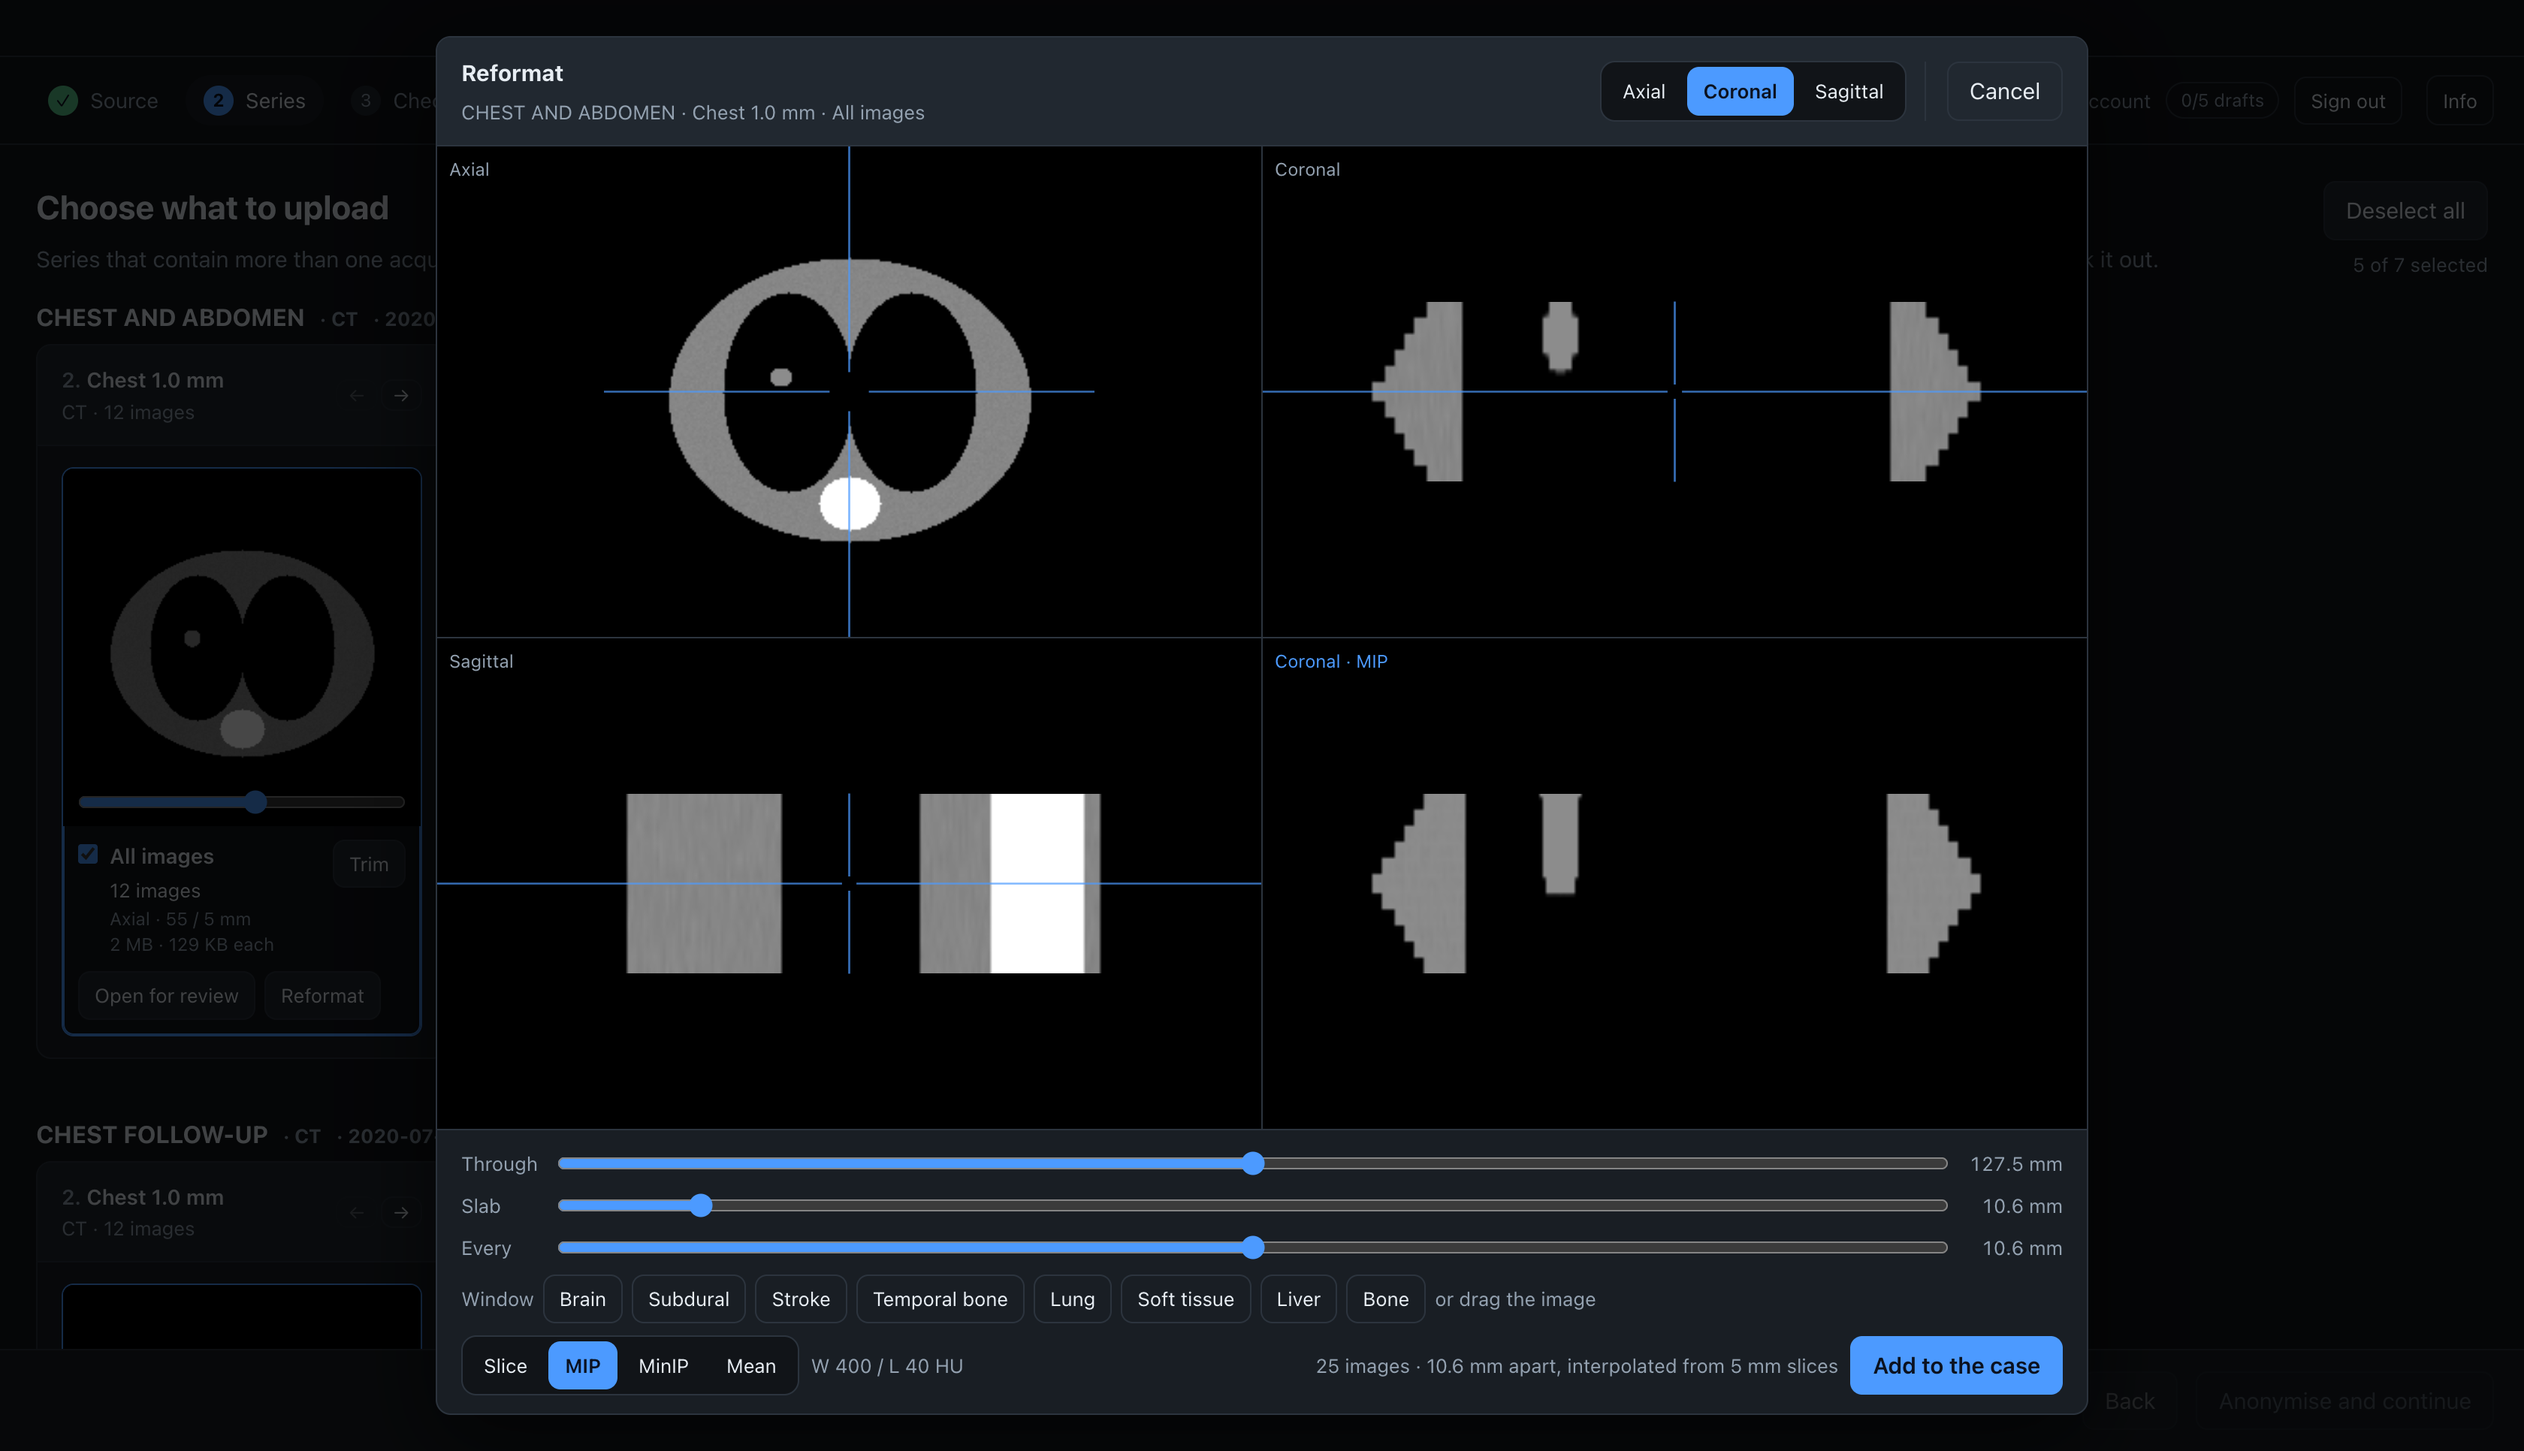
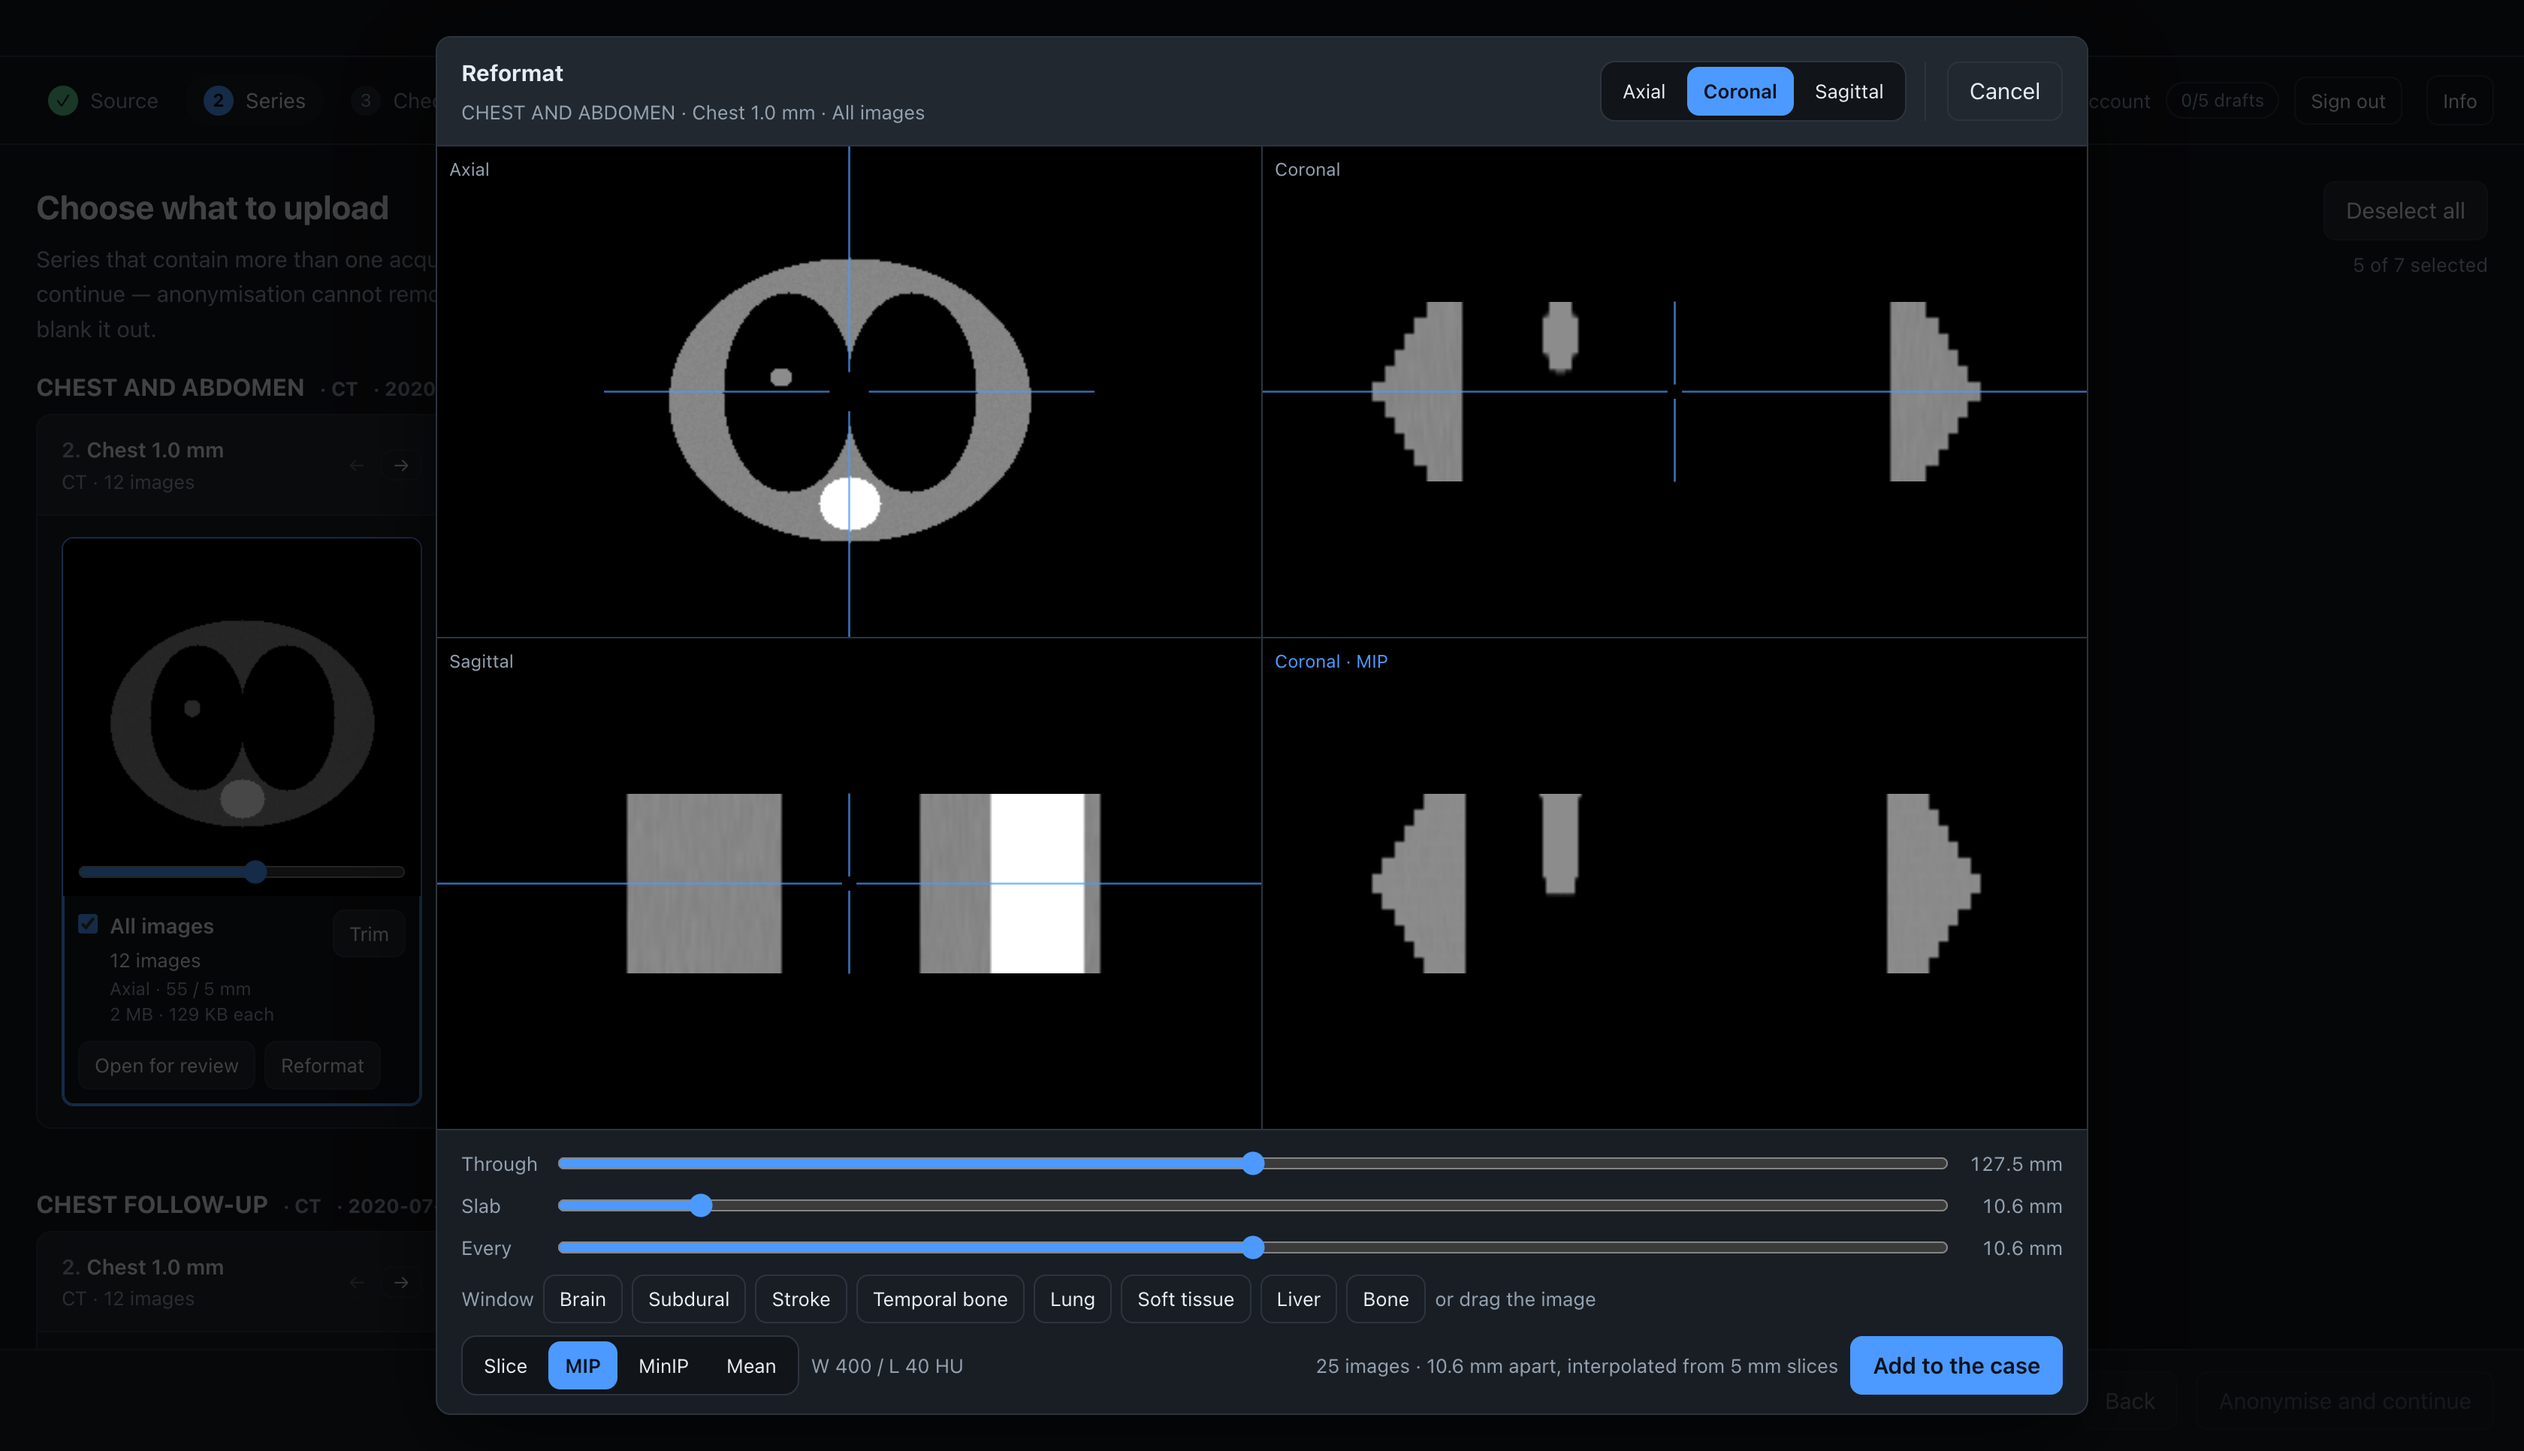
Stop the picker's instruction running the width of the window
The line under "Choose what to upload" is the one paragraph in the app that
nothing bounded, and it is the one that has to be read: it says anonymisation
will not touch the pixels and that a series has to be opened to blank them. On
a wide window it ran two hundred characters, and past about seventy-five the
eye loses the start of the next line.

Everything else was already inside something — the case form is 780px, the
dialogs are narrower still — so this is one class and one place that wanted it.

diff --git a/src/renderer/src/components/ReviewStep.tsx b/src/renderer/src/components/ReviewStep.tsx
@@ -80,7 +80,7 @@ export function ReviewStep({
       <div style={{ display: 'flex', alignItems: 'flex-start', gap: 16 }}>
         <div style={{ flex: 1 }}>
           <h1>Choose what to upload</h1>
-          <p className="muted" style={{ marginTop: 0 }}>
+          <p className="muted prose" style={{ marginTop: 0 }}>
             Series that contain more than one acquisition have been split apart. Check the images before you continue —
             anonymisation cannot remove identifying text burnt into the pixels — open a series to blank it out.
           </p>

diff --git a/src/renderer/src/styles.css b/src/renderer/src/styles.css
@@ -123,6 +123,10 @@ h2 { font-size: 16px; margin: 0 0 4px; }
 h3 { font-size: 14px; margin: 0; font-weight: 600; }
 .muted { color: var(--muted); }
 .small { font-size: 13px; }
+/* A paragraph stops being one past about seventy-five characters: the eye
+   loses the start of the next line. The picker's own instruction ran the full
+   width of the window, which on a wide screen is two hundred. */
+.prose { max-width: 72ch; }
 
 .drop {
   display: grid; place-items: center; gap: 16px;
